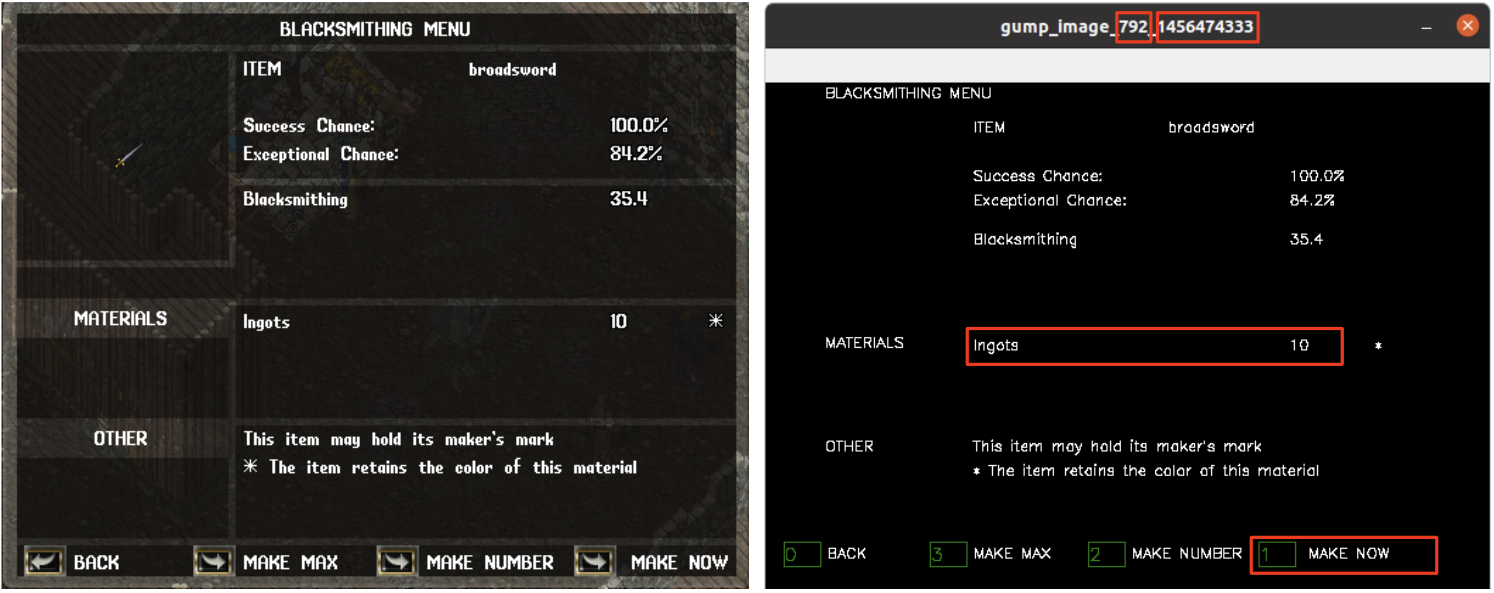
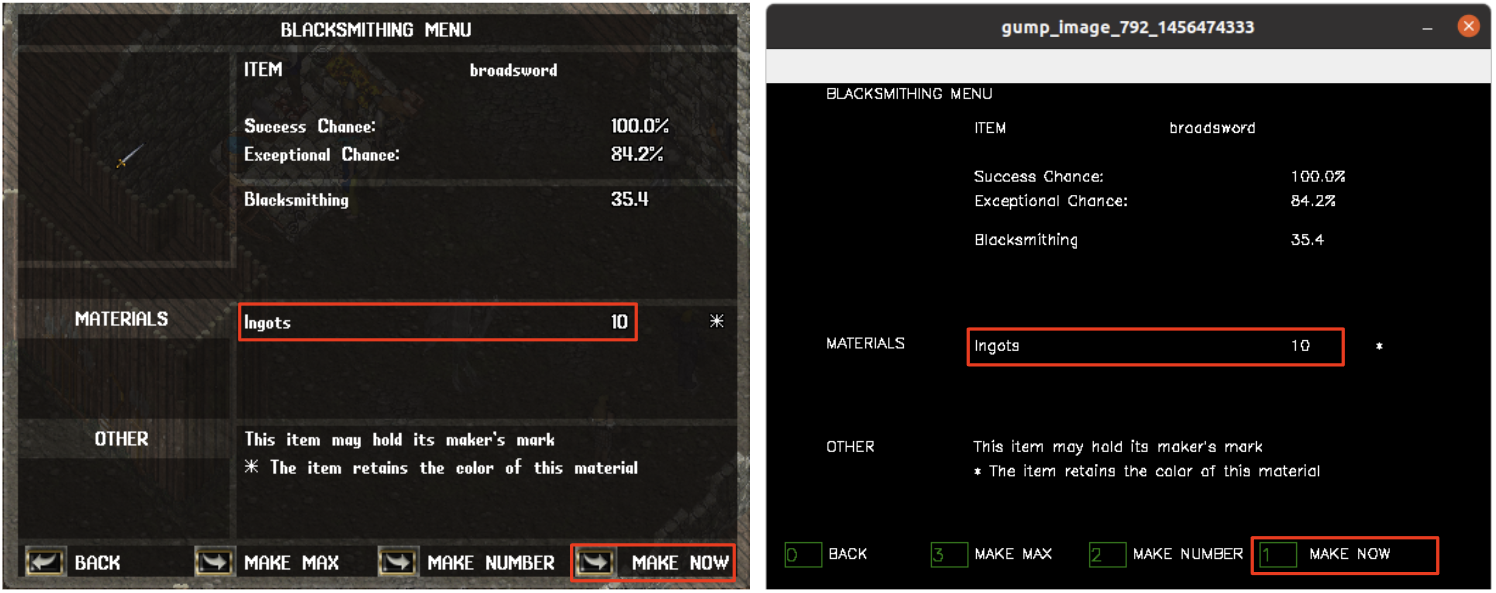
back up

diff --git a/docs/tutorial_code.html b/docs/tutorial_code.html
@@ -1216,21 +1216,24 @@ def step(uo_service):
                 <h5>Figure17: Sword Category Gump.</h5>
                 <img src="Fig/SwordCategoryGump.png" class="rounded mx-auto d-block float-center" alt="Training process" width=100%>
 
-                Because a new dialog box is created when buttons that have the non-zero id are clicked, the newly updated information of dialog box must be used for the next action. In the case of buttons with id 0, they are in charge of internal processing such as changing the page of an existing dialog box, so they have nothing to do with action.
+                Because a new dialog box is created when buttons that have the non-zero id are clicked, the newly updated information of dialog box must be used for the next action. In the case of buttons with id 0, they are in charge of internal processing such as changing the page of an existing dialog box. For that reason, they can be ignored because we already obtained all dialog box information of all page.
 
                 <br>
                 <br>
                 <h5>Figure17: Gump Pages.</h5>
                 <img src="Fig/GumpPages.png" class="rounded mx-auto d-block float-center" alt="Training process" width=100%>
 
+                After entering the dialog box where you can select one of sword items, let's make a broadsword here. There are two buttons on the left and right of that item. Here, click the right button to enter the item craft details dialog box. Left button is for quick crafting. Because the corresponding button has an id of 10, set the <b>index</b> of the action to 10, set the local serial of the newly created dialog box to <b>source_serial</b>, set the server serial to <b>target_serial</b>, and execute an action whose <b>action_type</b> is 9 like a previous step. 
+
                 <br>
                 <br>
                 <h5>Figure18: Broadsword Craft Gump.</h5>
                 <img src="Fig/BroadswordCraftGump.png" class="rounded mx-auto d-block float-center" alt="Training process" width=100%>
 
-                <br>
-                <br>
+                Now we have reached the final dialog box for crafting the broadsword item. From here, you can obtain the detailed information such as the required ingots and the success rates of crafting that depends on the Blacksmithy level. If you click the <b>make now button</b> at the bottom right, the item will be crafted. The distance from the anvil should be less than or equal to 2 and amount of 10 ingots in the backpack should be greater than or equal to 10 to craft the Broadsword item. Therefore, please check that values before sending the action.
 
+                <br>
+                <br>
                 <h5>Figure19: Craft Item Detail Gump.</h5>
                 <img src="Fig/CraftItemDetailGump.png" class="rounded mx-auto d-block float-center" alt="Training process" width=100%>
 

diff --git a/uoservice/examples/craft_sword.py b/uoservice/examples/craft_sword.py
@@ -219,7 +219,7 @@ def step(uo_service):
         select_gump_button_flag_2 = False
         select_gump_button_flag_3 = True
       elif select_gump_button_flag_3 == True:
-        print("Select make now button")
+        print("Select the 'make now' button")
 
         if anvil_distance <= 2 and iron_ingot_amount >= 10:
           action['action_type'] = 9
